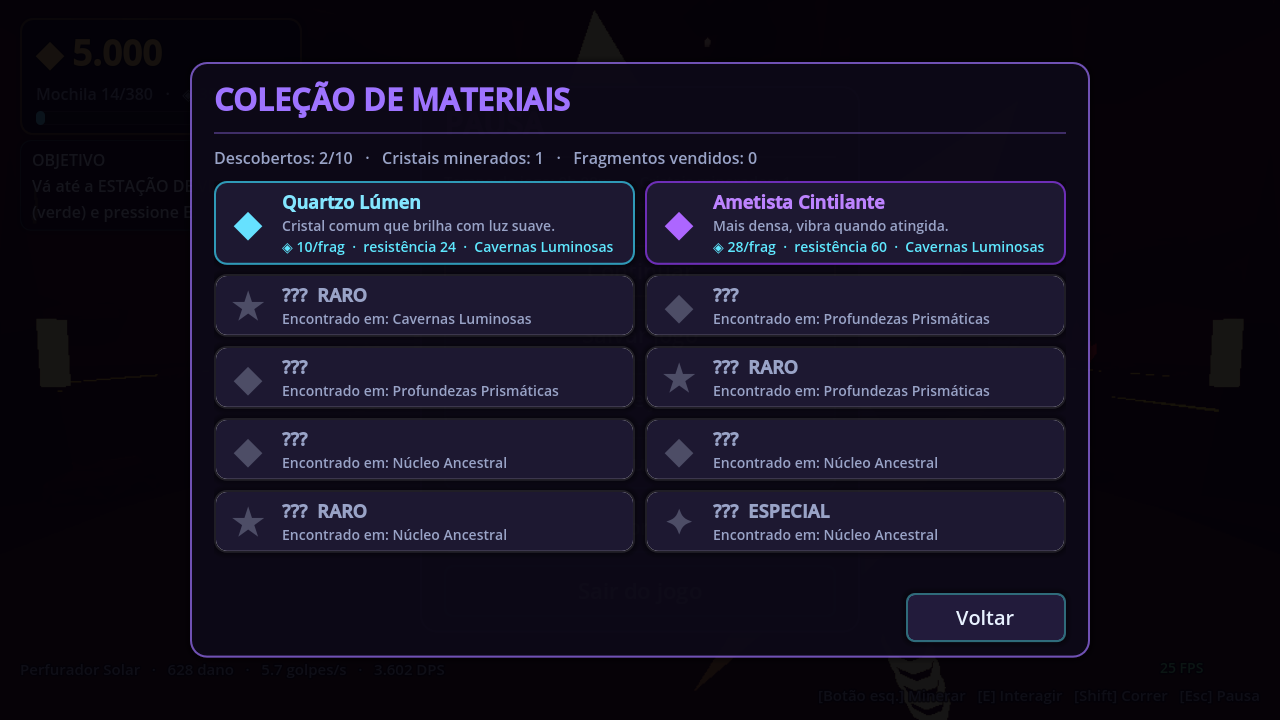
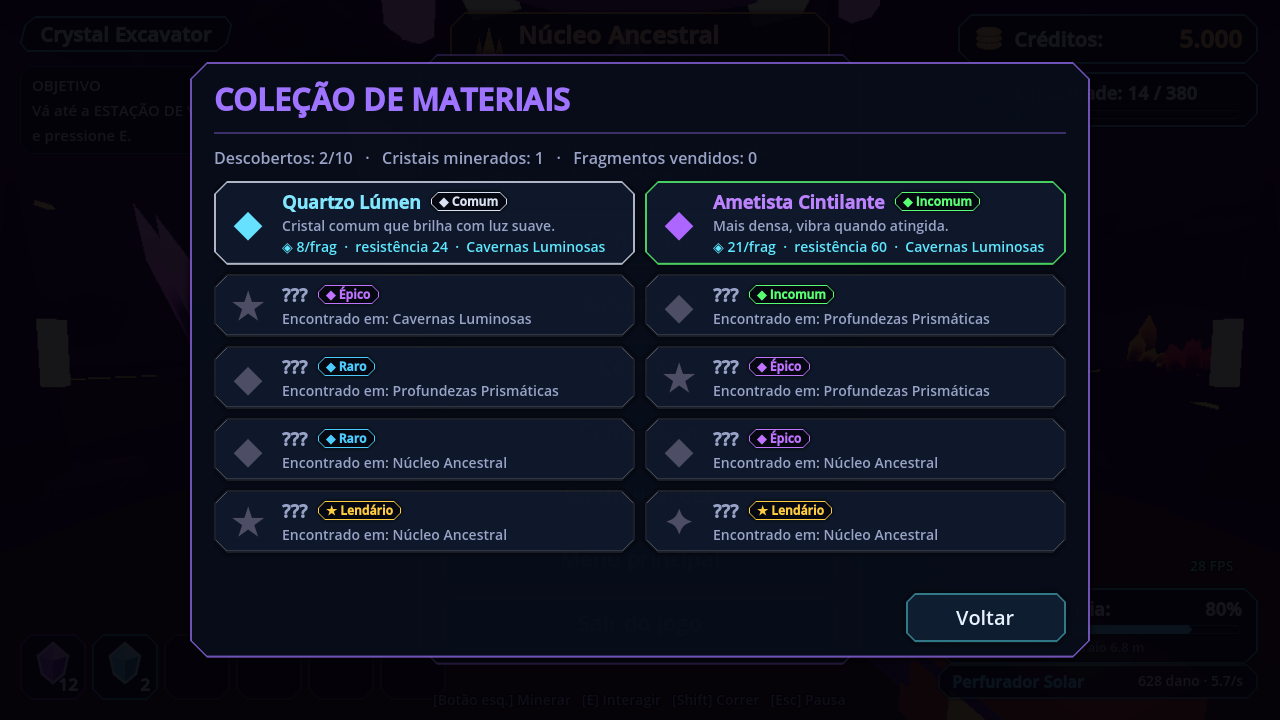
Raridades com selos, depósitos de cristal e malhas mescladas (menos draw calls)
Claude-Session: https://claude.ai/code/session_01VNDxi8LJdZjd7RsBuVevc4

diff --git a/scripts/Data/GameData.cs b/scripts/Data/GameData.cs
@@ -4,6 +4,28 @@ using Godot;
 
 namespace CrystalExcavator.Data;
 
+/// <summary>Raridade de jogo (valor/frequência), exibida com cor e selo.</summary>
+public enum Rarity { Comum, Incomum, Raro, Epico, Lendario }
+
+public static class RarityInfo
+{
+    public static string Name(Rarity r) => r switch
+    {
+        Rarity.Comum => "Comum", Rarity.Incomum => "Incomum", Rarity.Raro => "Raro", Rarity.Epico => "Épico", _ => "Lendário",
+    };
+
+    public static Color Color(Rarity r) => r switch
+    {
+        Rarity.Comum => new Color(0.85f, 0.88f, 0.95f),
+        Rarity.Incomum => new Color(0.35f, 1f, 0.45f),
+        Rarity.Raro => new Color(0.3f, 0.8f, 1f),
+        Rarity.Epico => new Color(0.75f, 0.45f, 1f),
+        _ => new Color(1f, 0.8f, 0.25f),
+    };
+
+    public static string Badge(Rarity r) => (r == Rarity.Lendario ? "★ " : "◆ ") + Name(r);
+}
+
 /// <summary>Definição imutável de um material minerável.</summary>
 public sealed class MaterialDef
 {
@@ -19,6 +41,7 @@ public sealed class MaterialDef
     public bool Rare;
     public bool Special;       // formação especial (ex.: Coração Ancestral)
     public float RespawnSeconds = 25f;
+    public Rarity Rarity = Rarity.Comum;
 }
 
 public sealed class SpawnEntry
@@ -100,70 +123,70 @@ public static class GameData
         // ---------------- Materiais ----------------
         Add(new MaterialDef
         {
-            Id = "quartz", Name = "Quartzo Lúmen", Value = 3, Hp = 24,
+            Id = "quartz", Rarity = Rarity.Comum, Name = "Quartzo Lúmen", Value = 3, Hp = 24,
             Description = "Cristal comum que brilha com luz suave.",
             Color = new Color(0.55f, 0.95f, 1.0f), Glow = new Color(0.25f, 0.85f, 1.0f),
             ShardsMin = 3, ShardsMax = 4, RespawnSeconds = 18
         });
         Add(new MaterialDef
         {
-            Id = "amethyst", Name = "Ametista Cintilante", Value = 8, Hp = 60,
+            Id = "amethyst", Rarity = Rarity.Incomum, Name = "Ametista Cintilante", Value = 8, Hp = 60,
             Description = "Mais densa, vibra quando atingida.",
             Color = new Color(0.72f, 0.45f, 1.0f), Glow = new Color(0.6f, 0.25f, 1.0f),
             ShardsMin = 3, ShardsMax = 5, RespawnSeconds = 24
         });
         Add(new MaterialDef
         {
-            Id = "sunstone", Name = "Lágrima Solar", Value = 60, Hp = 110, Rare = true,
+            Id = "sunstone", Rarity = Rarity.Epico, Name = "Lágrima Solar", Value = 60, Hp = 110, Rare = true,
             Description = "Raríssima. Aquece a palma da mão.",
             Color = new Color(1.0f, 0.85f, 0.35f), Glow = new Color(1.0f, 0.65f, 0.1f),
             ShardsMin = 4, ShardsMax = 6, RespawnSeconds = 40
         });
         Add(new MaterialDef
         {
-            Id = "sapphire", Name = "Safira Prismática", Value = 26, Hp = 240,
+            Id = "sapphire", Rarity = Rarity.Incomum, Name = "Safira Prismática", Value = 26, Hp = 240,
             Description = "Refrata a luz em feixes azuis.",
             Color = new Color(0.3f, 0.55f, 1.0f), Glow = new Color(0.15f, 0.35f, 1.0f),
             ShardsMin = 3, ShardsMax = 5, RespawnSeconds = 24
         });
         Add(new MaterialDef
         {
-            Id = "emerald", Name = "Esmeralda Refrativa", Value = 55, Hp = 480,
+            Id = "emerald", Rarity = Rarity.Raro, Name = "Esmeralda Refrativa", Value = 55, Hp = 480,
             Description = "Cresce em veios sob a névoa fria.",
             Color = new Color(0.3f, 1.0f, 0.6f), Glow = new Color(0.1f, 0.9f, 0.45f),
             ShardsMin = 3, ShardsMax = 5, RespawnSeconds = 28
         });
         Add(new MaterialDef
         {
-            Id = "starprism", Name = "Prisma Estelar", Value = 420, Hp = 900, Rare = true,
+            Id = "starprism", Rarity = Rarity.Epico, Name = "Prisma Estelar", Value = 420, Hp = 900, Rare = true,
             Description = "Contém pontos de luz como um céu noturno.",
             Color = new Color(1.0f, 0.55f, 0.95f), Glow = new Color(1.0f, 0.35f, 0.9f),
             ShardsMin = 4, ShardsMax = 6, RespawnSeconds = 45
         });
         Add(new MaterialDef
         {
-            Id = "ruby", Name = "Rubi Nuclear", Value = 160, Hp = 2200,
+            Id = "ruby", Rarity = Rarity.Raro, Name = "Rubi Nuclear", Value = 160, Hp = 2200,
             Description = "Pulsa no ritmo do núcleo do planeta.",
             Color = new Color(1.0f, 0.3f, 0.3f), Glow = new Color(1.0f, 0.12f, 0.1f),
             ShardsMin = 3, ShardsMax = 5, RespawnSeconds = 26
         });
         Add(new MaterialDef
         {
-            Id = "ancestralite", Name = "Ancestralita", Value = 340, Hp = 4500,
+            Id = "ancestralite", Rarity = Rarity.Epico, Name = "Ancestralita", Value = 340, Hp = 4500,
             Description = "Mineral antigo com runas naturais.",
             Color = new Color(1.0f, 0.62f, 0.25f), Glow = new Color(1.0f, 0.45f, 0.05f),
             ShardsMin = 4, ShardsMax = 6, RespawnSeconds = 30
         });
         Add(new MaterialDef
         {
-            Id = "voidpearl", Name = "Pérola do Vazio", Value = 2600, Hp = 8000, Rare = true,
+            Id = "voidpearl", Rarity = Rarity.Lendario, Name = "Pérola do Vazio", Value = 2600, Hp = 8000, Rare = true,
             Description = "Absorve a luz ao redor. Valor incalculável.",
             Color = new Color(0.85f, 0.95f, 1.0f), Glow = new Color(0.55f, 0.4f, 1.0f),
             ShardsMin = 4, ShardsMax = 6, RespawnSeconds = 55
         });
         Add(new MaterialDef
         {
-            Id = "heart", Name = "Coração Ancestral", Value = 2200, Hp = 600000, Special = true,
+            Id = "heart", Rarity = Rarity.Lendario, Name = "Coração Ancestral", Value = 2200, Hp = 600000, Special = true,
             Description = "Formação especial colossal. Libera uma chuva de fragmentos.",
             Color = new Color(1.0f, 0.95f, 0.75f), Glow = new Color(1.0f, 0.55f, 0.2f),
             ShardsMin = 18, ShardsMax = 24, RespawnSeconds = 120

diff --git a/scripts/Mining/Crystal.cs b/scripts/Mining/Crystal.cs
@@ -77,15 +77,20 @@ public partial class Crystal : StaticBody3D
         float s = special ? 2.6f : SizeScale;
         _baseEnergy = mat.Rare ? 1.3f : special ? 1.5f : 0.85f;
 
-        // base rochosa
+        // depósito rochoso: duas rochas mescladas em uma malha
+        var rockSt = new SurfaceTool();
+        rockSt.Begin(Mesh.PrimitiveType.Triangles);
+        var rock = MeshFactory.Rock(_rng.Next(0, 6), 0.32f);
+        rockSt.AppendFrom(rock, 0, new Transform3D(Basis.Identity.ScaleLocal(new Vector3(0.62f, 0.36f, 0.62f) * s), new Vector3(0, 0.08f * s, 0)));
+        float ra = (float)_rng.NextDouble() * Mathf.Tau;
+        rockSt.AppendFrom(rock, 0, new Transform3D(new Basis(Vector3.Up, ra).ScaleLocal(new Vector3(0.38f, 0.26f, 0.38f) * s),
+            new Vector3(MathF.Cos(ra) * 0.42f * s, 0.05f * s, MathF.Sin(ra) * 0.42f * s)));
         var baseRock = new MeshInstance3D
         {
-            Mesh = MeshFactory.Rock(_rng.Next(0, 6), 0.3f),
-            MaterialOverride = MeshFactory.RockMaterial(new Color(0.22f, 0.2f, 0.28f)),
-            Scale = new Vector3(0.55f, 0.28f, 0.55f) * s,
+            Mesh = rockSt.Commit(),
+            MaterialOverride = MeshFactory.RockMaterial(new Color(0.3f, 0.25f, 0.27f)),
             CastShadow = GeometryInstance3D.ShadowCastingSetting.Off,
         };
-        baseRock.Position = new Vector3(0, 0.05f * s, 0);
         _visual.AddChild(baseRock);
 
         _crystalShader ??= GD.Load<Shader>("res://shaders/crystal.gdshader");
@@ -95,26 +100,32 @@ public partial class Crystal : StaticBody3D
         crystalMat.SetShaderParameter("seed", (float)_rng.NextDouble() * 50f);
         _mats.Add(crystalMat);
         SetGlow(_baseEnergy, 0f, 0f);
-        for (int i = 0; i < count; i++)
+        // todos os prismas do aglomerado (grandes + lascas na base) em UMA malha → 1 chamada de desenho
+        var prism = MeshFactory.CrystalPrism(6, 1f, 1f, 0.3f);
+        var st = new SurfaceTool();
+        st.Begin(Mesh.PrimitiveType.Triangles);
+        int shards = special ? 8 : _rng.Next(3, 6);
+        for (int i = 0; i < count + shards; i++)
         {
-            float h = (0.6f + (float)_rng.NextDouble() * 0.9f) * s;
-            float r = (0.12f + (float)_rng.NextDouble() * 0.1f) * s;
+            bool small = i >= count;
+            float h = small ? (0.18f + (float)_rng.NextDouble() * 0.2f) * s : (0.6f + (float)_rng.NextDouble() * 0.9f) * s;
+            float r = small ? (0.05f + (float)_rng.NextDouble() * 0.04f) * s : (0.12f + (float)_rng.NextDouble() * 0.1f) * s;
             if (i == 0) { h *= 1.35f; r *= 1.3f; }
-            var mi = new MeshInstance3D
-            {
-                Mesh = MeshFactory.CrystalPrism(6, 1f, 1f, 0.3f),
-                MaterialOverride = crystalMat,
-                CastShadow = GeometryInstance3D.ShadowCastingSetting.Off,
-                Scale = new Vector3(r, h, r),
-            };
             float ang = (float)_rng.NextDouble() * Mathf.Tau;
-            float dist = i == 0 ? 0 : (0.12f + (float)_rng.NextDouble() * 0.22f) * s;
-            mi.Position = new Vector3(MathF.Cos(ang) * dist, 0.05f * s, MathF.Sin(ang) * dist);
-            float tilt = i == 0 ? 0.1f : 0.25f + (float)_rng.NextDouble() * 0.45f;
+            float dist = i == 0 ? 0 : small ? (0.4f + (float)_rng.NextDouble() * 0.25f) * s : (0.12f + (float)_rng.NextDouble() * 0.22f) * s;
+            var pos = new Vector3(MathF.Cos(ang) * dist, small ? 0.02f : 0.05f * s, MathF.Sin(ang) * dist);
+            float tilt = i == 0 ? 0.1f : small ? 0.6f + (float)_rng.NextDouble() * 0.5f : 0.25f + (float)_rng.NextDouble() * 0.45f;
             // inclina para fora do centro
-            mi.Rotation = new Vector3(MathF.Sin(ang) * tilt, (float)_rng.NextDouble() * Mathf.Tau, -MathF.Cos(ang) * tilt);
-            _visual.AddChild(mi);
+            var rot = new Vector3(MathF.Sin(ang) * tilt, (float)_rng.NextDouble() * Mathf.Tau, -MathF.Cos(ang) * tilt);
+            var basis = Basis.FromEuler(rot).ScaleLocal(new Vector3(r, h, r));
+            st.AppendFrom(prism, 0, new Transform3D(basis, pos));
         }
+        _visual.AddChild(new MeshInstance3D
+        {
+            Mesh = st.Commit(),
+            MaterialOverride = crystalMat,
+            CastShadow = GeometryInstance3D.ShadowCastingSetting.Off,
+        });
 
         if (mat.Rare || special)
         {

diff --git a/scripts/UI/Menus.cs b/scripts/UI/Menus.cs
@@ -265,7 +265,7 @@ public partial class CodexScreen : ModalScreen
     {
         var gs = GameState.Instance;
         var card = new PanelContainer { SizeFlagsHorizontal = Control.SizeFlags.ExpandFill, CustomMinimumSize = new Vector2(410, 0) };
-        var border = known ? new Color(m.Glow, 0.7f) : new Color(1, 1, 1, 0.1f);
+        var border = known ? new Color(RarityInfo.Color(m.Rarity), 0.8f) : new Color(1, 1, 1, 0.1f);
         card.AddThemeStyleboxOverride("panel", UiTheme.Box(UiTheme.Card, border, 12, 2, 12));
         var h = new HBoxContainer();
         h.AddThemeConstantOverride("separation", 12);
@@ -277,8 +277,15 @@ public partial class CodexScreen : ModalScreen
         var v = new VBoxContainer { SizeFlagsHorizontal = Control.SizeFlags.ExpandFill };
         v.AddThemeConstantOverride("separation", 1);
         h.AddChild(v);
-        string tag = m.Special ? "  ESPECIAL" : m.Rare ? "  RARO" : "";
-        v.AddChild(UiTheme.Label(known ? m.Name + tag : "???" + tag, 18, known ? m.Glow.Lightened(0.35f) : UiTheme.Muted, true));
+        var titleRow = new HBoxContainer();
+        titleRow.AddThemeConstantOverride("separation", 10);
+        v.AddChild(titleRow);
+        titleRow.AddChild(UiTheme.Label(known ? m.Name : "???", 18, known ? m.Glow.Lightened(0.35f) : UiTheme.Muted, true));
+        var badge = new PanelContainer();
+        badge.AddThemeStyleboxOverride("panel", UiTheme.Chamfer(new Color(0.02f, 0.03f, 0.06f, 0.9f), RarityInfo.Color(m.Rarity), 6, 1, 8, 1));
+        badge.AddChild(UiTheme.Label(RarityInfo.Badge(m.Rarity), 12, RarityInfo.Color(m.Rarity), true));
+        badge.SizeFlagsVertical = Control.SizeFlags.ShrinkCenter;
+        titleRow.AddChild(badge);
         var desc = UiTheme.Label(known ? m.Description : $"Encontrado em: {r.Name}", 14, UiTheme.Muted);
         desc.AutowrapMode = TextServer.AutowrapMode.WordSmart;
         desc.CustomMinimumSize = new Vector2(320, 0);

diff --git a/scripts/World/MeshFactory.cs b/scripts/World/MeshFactory.cs
@@ -28,13 +28,25 @@ public static class MeshFactory
             top[i] = new Vector3(MathF.Cos(a) * radius, body, MathF.Sin(a) * radius);
         }
         var tip = new Vector3(0, height, 0);
+        // UV.x = ângulo (0..1), UV.y = altura relativa (0..1): usados pelo shader mesmo após mesclar prismas
+        void V(Vector3 p, Color c, float u)
+        {
+            st.SetColor(c);
+            st.SetUV(new Vector2(u, p.Y / height));
+            st.AddVertex(p);
+        }
+        var low = new Color(0.55f, 0.55f, 0.55f);
+        var high = new Color(1, 1, 1);
+        var tipC = new Color(1.25f, 1.25f, 1.25f);
         for (int i = 0; i < sides; i++)
         {
             int j = (i + 1) % sides;
-            // laterais (cor de vértice escurece na base para dar profundidade)
-            Quad(st, bottom[i], bottom[j], top[j], top[i], new Color(0.55f, 0.55f, 0.55f), new Color(1, 1, 1));
+            float ui = (float)i / sides, uj = (float)(i + 1) / sides;
+            // laterais (ordem igual a Tri/Quad: a, c, b)
+            V(bottom[i], low, ui); V(top[j], high, uj); V(bottom[j], low, uj);
+            V(bottom[i], low, ui); V(top[i], high, ui); V(top[j], high, uj);
             // ponta
-            Tri(st, top[i], top[j], tip, new Color(1, 1, 1), new Color(1, 1, 1), new Color(1.25f, 1.25f, 1.25f));
+            V(top[i], high, ui); V(tip, tipC, (ui + uj) * 0.5f); V(top[j], high, uj);
         }
         st.GenerateNormals();
         var mesh = st.Commit();

diff --git a/scripts/UI/Terminal.cs b/scripts/UI/Terminal.cs
@@ -389,9 +389,12 @@ public partial class SellScreen : TerminalScreen
             var row = new HBoxContainer();
             row.AddThemeConstantOverride("separation", 10);
             row.AddChild(HudIcon.Make(HudIcon.Kind.Gem, m.Glow.Lightened(0.15f), 24));
-            var n = UiTheme.Label(m.Name + (m.Rare ? " ★" : m.Special ? " ✦" : ""), 18, m.Glow.Lightened(0.4f), true);
-            n.SizeFlagsHorizontal = Control.SizeFlags.ExpandFill;
+            var n = UiTheme.Label(m.Name, 18, m.Glow.Lightened(0.4f), true);
             row.AddChild(n);
+            var rb = UiTheme.Label(RarityInfo.Badge(m.Rarity), 13, RarityInfo.Color(m.Rarity), true);
+            rb.SizeFlagsHorizontal = Control.SizeFlags.ExpandFill;
+            rb.SizeFlagsVertical = Control.SizeFlags.ShrinkCenter;
+            row.AddChild(rb);
             row.AddChild(UiTheme.Label($"{kv.Value} × {GameState.FormatMoney(gs.SellPrice(m))}", 16, UiTheme.Muted));
             var sub = UiTheme.Label(GameState.FormatMoney(gs.SellPrice(m) * kv.Value), 18, UiTheme.Gold, true, HorizontalAlignment.Right);
             sub.CustomMinimumSize = new Vector2(130, 0);

diff --git a/scripts/UI/Hud.cs b/scripts/UI/Hud.cs
@@ -559,8 +559,8 @@ public partial class Hud : CanvasLayer
         {
             var m = c.Material;
             _targetName.Text = m.Name;
-            _targetRarity.Text = m.Special ? "✦ Formação Especial" : m.Rare ? "★ Raro" : "Comum";
-            _targetRarity.AddThemeColorOverride("font_color", m.Special || m.Rare ? UiTheme.Gold : UiTheme.Muted);
+            _targetRarity.Text = RarityInfo.Badge(m.Rarity) + (m.Special ? " · Formação Especial" : m.Rare ? " · Veio raro" : "");
+            _targetRarity.AddThemeColorOverride("font_color", RarityInfo.Color(m.Rarity));
             _brackets.Color = m.Glow.Lightened(0.3f);
             _brackets.QueueRedraw();
             float pct = 1f - c.HpRatio;

diff --git a/scripts/Core/GameState.cs b/scripts/Core/GameState.cs
@@ -104,7 +104,7 @@ public partial class GameState : Node
         {
             Data.Discovered.Add(materialId);
             MaterialDiscovered?.Invoke(def);
-            Notify(def.Rare || def.Special ? "Material raro descoberto!" : "Novo material descoberto",
+            Notify(def.Rarity >= Rarity.Epico ? $"Material {RarityInfo.Name(def.Rarity)} descoberto!" : "Novo material descoberto",
                 $"{def.Name} — {FormatMoney(SellPrice(def))} por fragmento",
                 def.Rare || def.Special ? NotifyKind.Rare : NotifyKind.Info);
         }

diff --git a/DEVELOPMENT_LOG.md b/DEVELOPMENT_LOG.md
@@ -118,3 +118,8 @@ Polimento visual (ferramenta, números de dano, iluminação da região 3), revi
 - **Formações gigantes de cristal** decorativas (MultiMesh com o shader de cristal) nas três regiões; Profundezas mais claras.
 - Testes: 150/150. Bot: SUCESSO.
 - **Terminal 3D** remodelado no estilo do conceito: console com tela inclinada (interface em barras luminosas), cristais em pedestais, tablet e acabamento laranja.
+
+### Segunda leva de conceitos (estruturas, recursos, ferramentas, regiões)
+- **Raridades** (Comum/Incomum/Raro/Épico/Lendário) com cores e selos no painel do alvo, na Coleção, na venda e nas notificações de descoberta.
+- **Depósitos**: base de duas rochas mescladas + lascas de cristal ao redor.
+- **Otimização**: todos os prismas de um cristal mesclados em uma única malha (UV codifica ângulo/altura para o shader). Draw calls na qualidade Baixa: R1 ~340 → 246, R2 ~308 → 245, R3 ~300 → 210.
